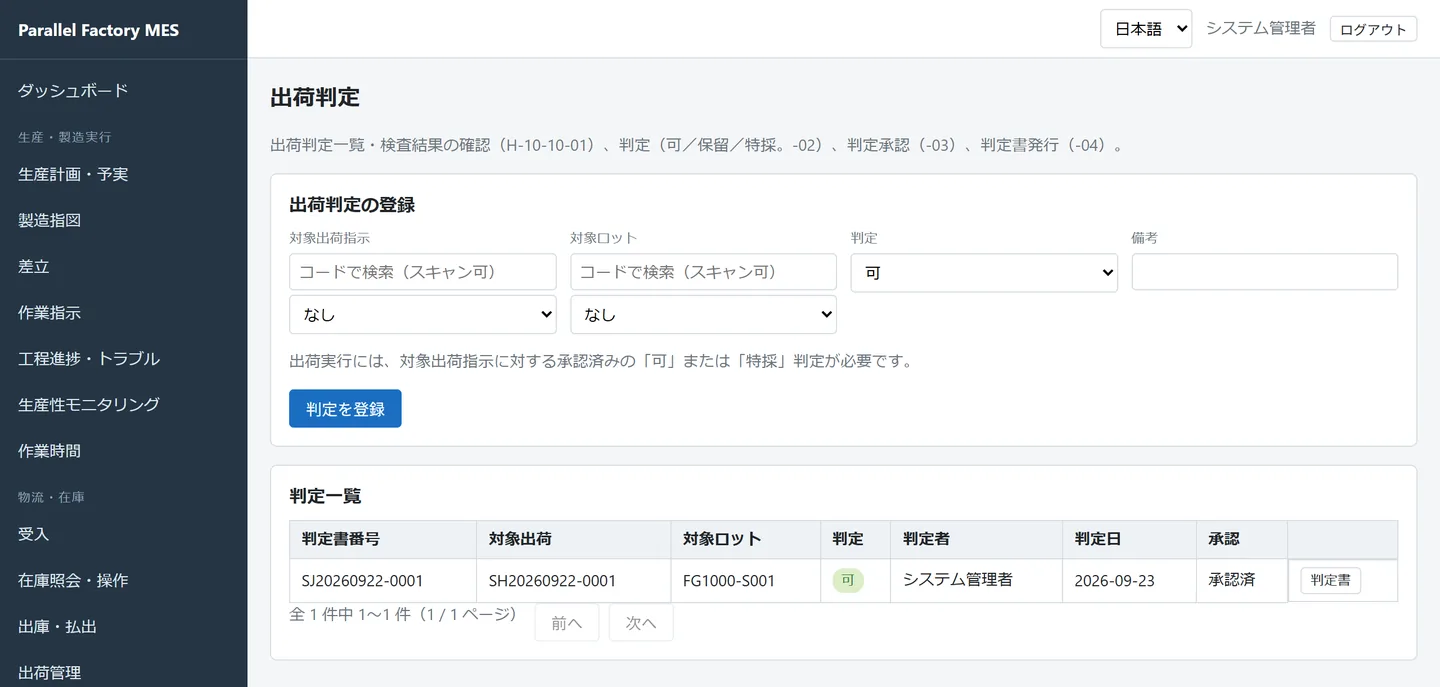
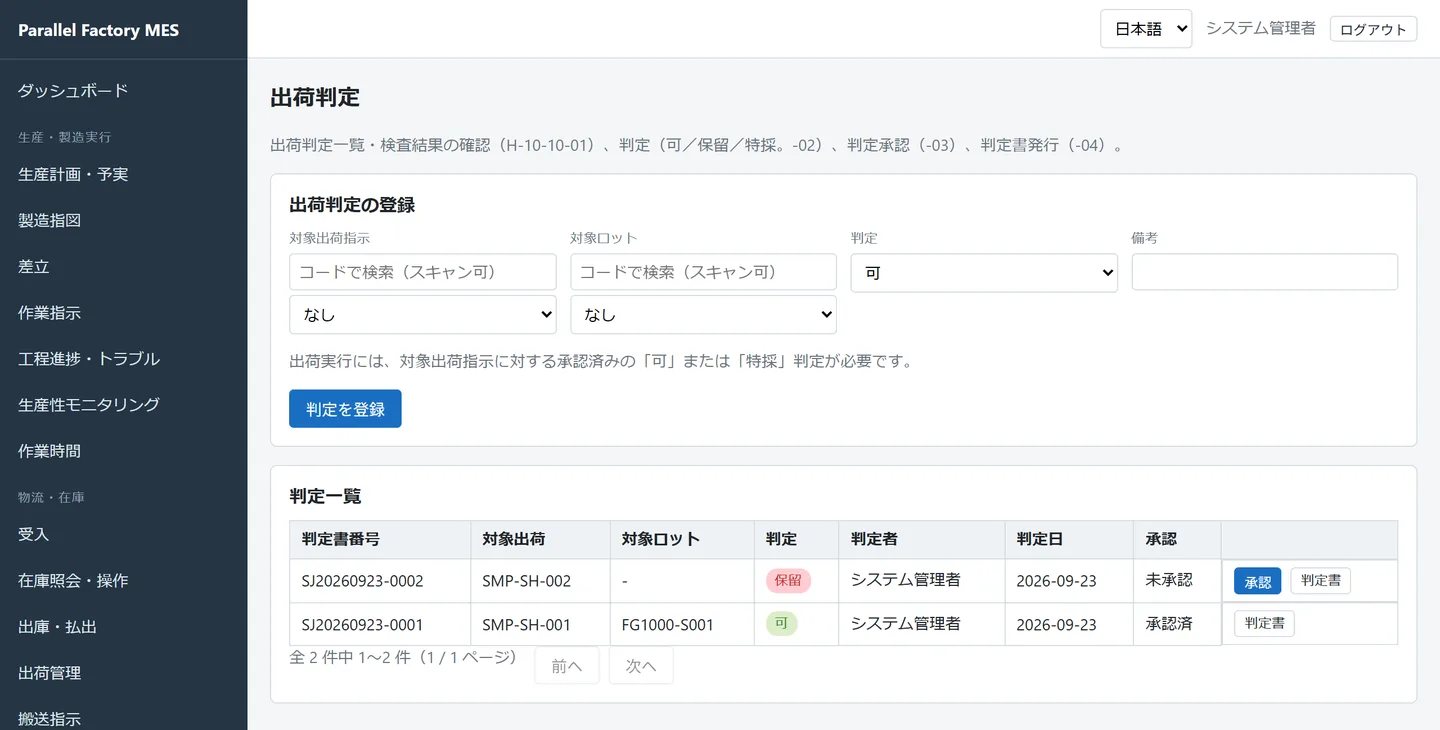
サンプルで見る製造から出荷までの出荷の画面写真を撮り直す
出荷をサンプルCSV（13〜15）で入れるようにしたので、出荷判定・出荷管理の写真を
サンプルを取り込んだ新しいDBで撮り直した。出荷番号が SMP-SH-001 になり、
判定が保留のまま残る SMP-SH-002 も写るため、代替テキストと説明を合わせた。

diff --git a/docs/walkthrough.md b/docs/walkthrough.md
@@ -433,13 +433,13 @@ MBOMと工順の登録方法は、[マスタ管理の品目・MBOM・工順](mas
 </figure>
 
 <figure class="shot">
-<img src="assets/walkthrough/shipment-judgments.webp" width="1440" height="687" alt="出荷判定画面。SH20260922-0001 と FG1000-S001 を対象にした判定「可」が承認済で並んでいる" loading="lazy">
-<figcaption>出荷判定。対象の出荷指示とロットを選び、判定を登録して承認する</figcaption>
+<img src="assets/walkthrough/shipment-judgments.webp" width="1440" height="730" alt="出荷判定画面。SMP-SH-001 と FG1000-S001 を対象にした判定「可」が承認済、SMP-SH-002 の判定「保留」が未承認で並んでいる" loading="lazy">
+<figcaption>出荷判定。対象の出荷指示とロットを選び、判定を登録して承認する。サンプルでは SMP-SH-002 を「保留」のままにしてある</figcaption>
 </figure>
 
 <figure class="shot">
-<img src="assets/walkthrough/shipping.webp" width="1440" height="732" alt="出荷管理画面。サンプル商事株式会社あての出荷指示が完了になり、FG-1000 が指示数5・出荷済5になっている" loading="lazy">
-<figcaption>出荷管理。出荷を実行すると「出荷済」の数が増え、全明細がそろうと指示が「完了」になる</figcaption>
+<img src="assets/walkthrough/shipping.webp" width="1440" height="1156" alt="出荷管理画面。サンプル商事株式会社あての SMP-SH-001 が完了（FG-1000 指示数5・出荷済5）、サンプル工業株式会社あての SMP-SH-002 が指示のままになっている" loading="lazy">
+<figcaption>出荷管理。出荷を実行すると「出荷済」の数が増え、全明細がそろうと指示が「完了」になる。SMP-SH-002 は判定が保留なので、出荷実行を押しても止まる</figcaption>
 </figure>
 
 サンプルでは、出荷指示・出荷判定・出荷実行もCSV（`13`〜`15`）で入ります。出荷番号はCSVで指定した SMP-SH-001 ですが、判定書番号は採番した日で決まるので、取り込んだ日によって変わります。
